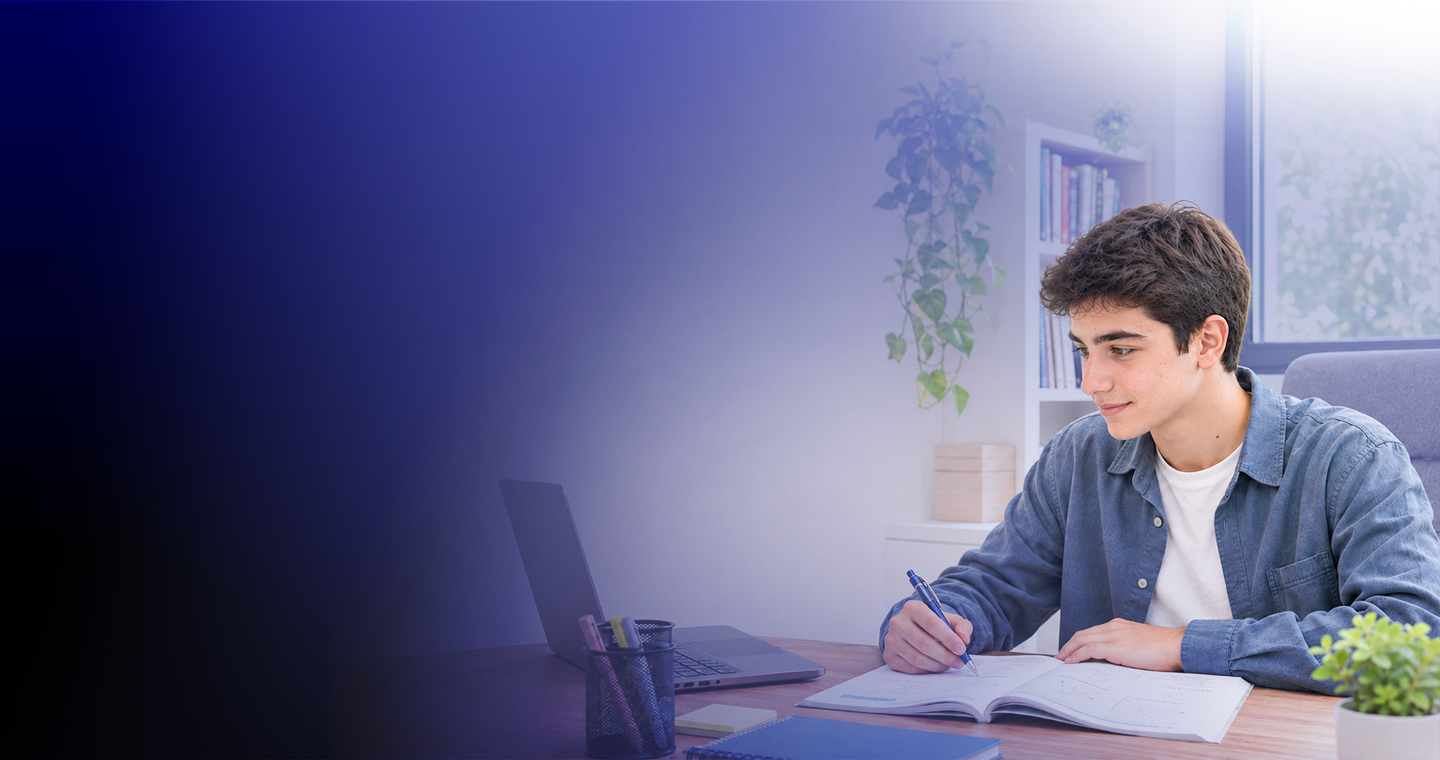
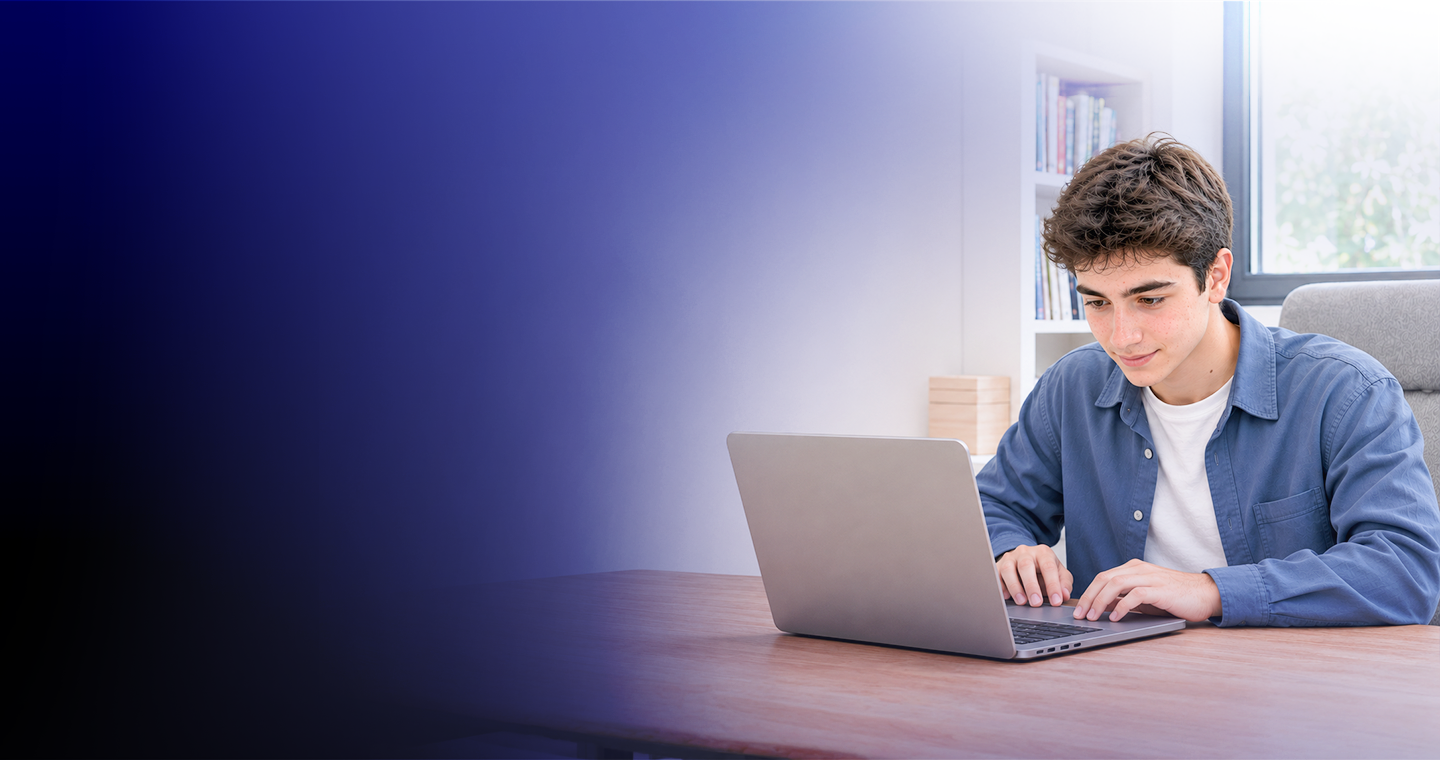
Add fourth hero slide and soften image zoom

diff --git a/landing-v2/scripts/landing/hero.js b/landing-v2/scripts/landing/hero.js
@@ -17,7 +17,9 @@ onReady(() => {
     2: 'YKS yolculuğunda her adımda yanında. MEBİ, ortaöğretim öğrencilerinin ve mezunlarının YKS’ye hazırlık sürecini ders anlatım videoları, çözümlü sorular ve bireysel çalışma planlarıyla destekleyen, ücretsiz bir bireysel öğrenme platformudur.',
     3: 'Hayalindeki liseye ilk adım MEBİ ile. MEBİ, ortaokul öğrencilerinin okul derslerini desteklemek ve LGS’ye hazırlık süreçlerine katkı sağlamak amacıyla ders anlatım videoları, çözümlü sorular ve bireysel çalışma planları sunan ücretsiz bir öğrenme platformudur.'
   };
-  const textPath = index => `landing-v2/images/${mobile.matches ? 'mobil-' : ''}hero-text-${index}.png`;
+  textDescriptions[4] = textDescriptions[3];
+  const desktopTextIndex = index => index === 4 ? 3 : index;
+  const textPath = index => `landing-v2/images/${mobile.matches ? 'mobil-' : ''}hero-text-${mobile.matches ? index : desktopTextIndex(index)}.png`;
   const series = {
     desktop: { base: 'landing-v2/images/hero-final', index: 1, last: 1, urls: new Map([[1, 'landing-v2/images/hero-final-1.png']]), entries: [1] }
   };
@@ -31,6 +33,7 @@ onReady(() => {
   const easeOut = getComputedStyle(picture).getPropertyValue('--ease-out').trim();
   const holdDuration = 6000;
   const fadeDuration = 1800;
+  const zoomAmount = 0.02;
   const stem = (state, index) => `${state.base}${index === 1 ? '' : `-${index}`}`;
   const path = (state, index) => state.urls.get(index) || `${stem(state, index)}.webp`;
   const current = () => series.desktop;
@@ -41,7 +44,7 @@ onReady(() => {
     if (reducedMotion.matches || !picture.animate || current().entries.length < 2) return;
     zoom = picture.animate([
       { transform: 'scale(1)' },
-      { transform: 'scale(1.06)' }
+      { transform: `scale(${1 + zoomAmount})` }
     ], { duration: holdDuration + fadeDuration, easing: 'linear', fill: 'both' });
     if (!running()) zoom.pause();
   };
@@ -130,7 +133,7 @@ onReady(() => {
     // Continue the old camera movement through the dissolve; the new one starts gently.
     animate(background, [
       { opacity: 1, transform: `scale(${previousScale})` },
-      { opacity: 0, transform: `scale(${previousScale + 0.014})` }
+      { opacity: 0, transform: `scale(${previousScale + zoomAmount * fadeDuration / (holdDuration + fadeDuration)})` }
     ], { duration: fadeDuration, easing: 'linear' });
     if (text) {
       animate(outgoingText, [
